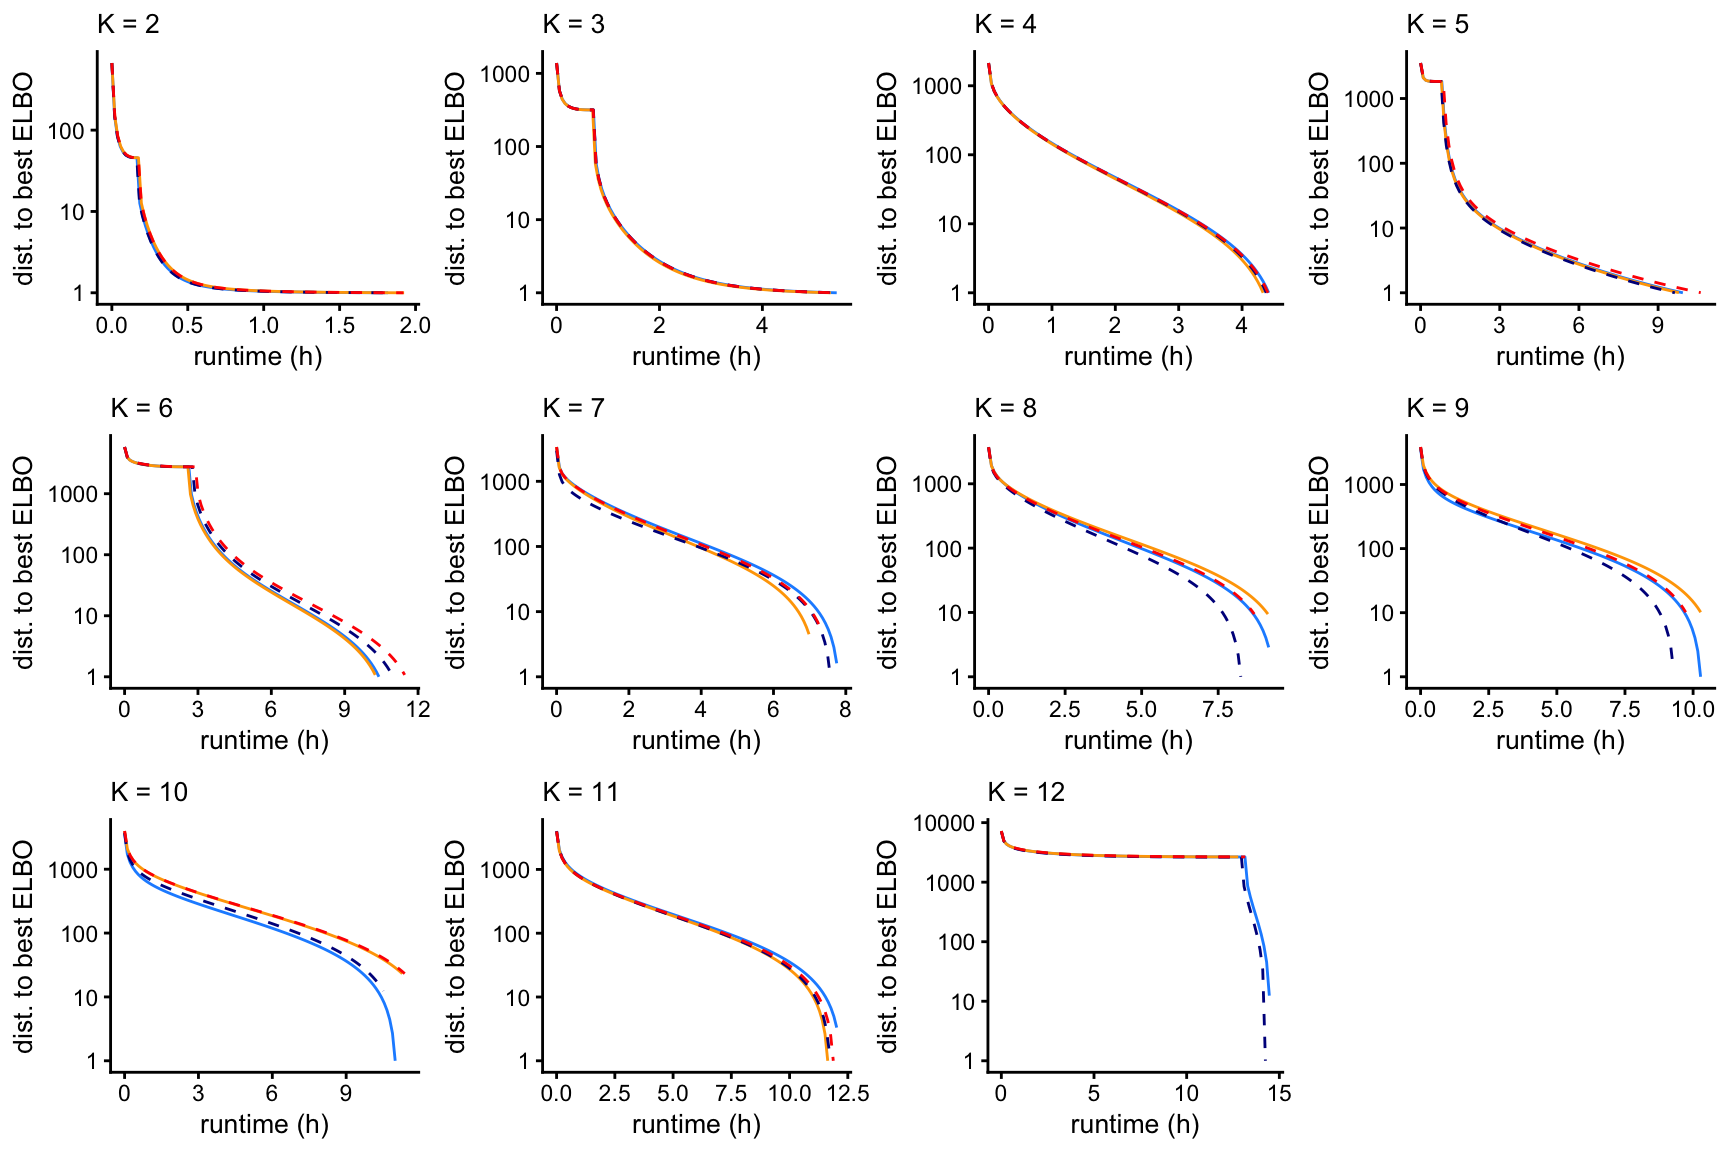
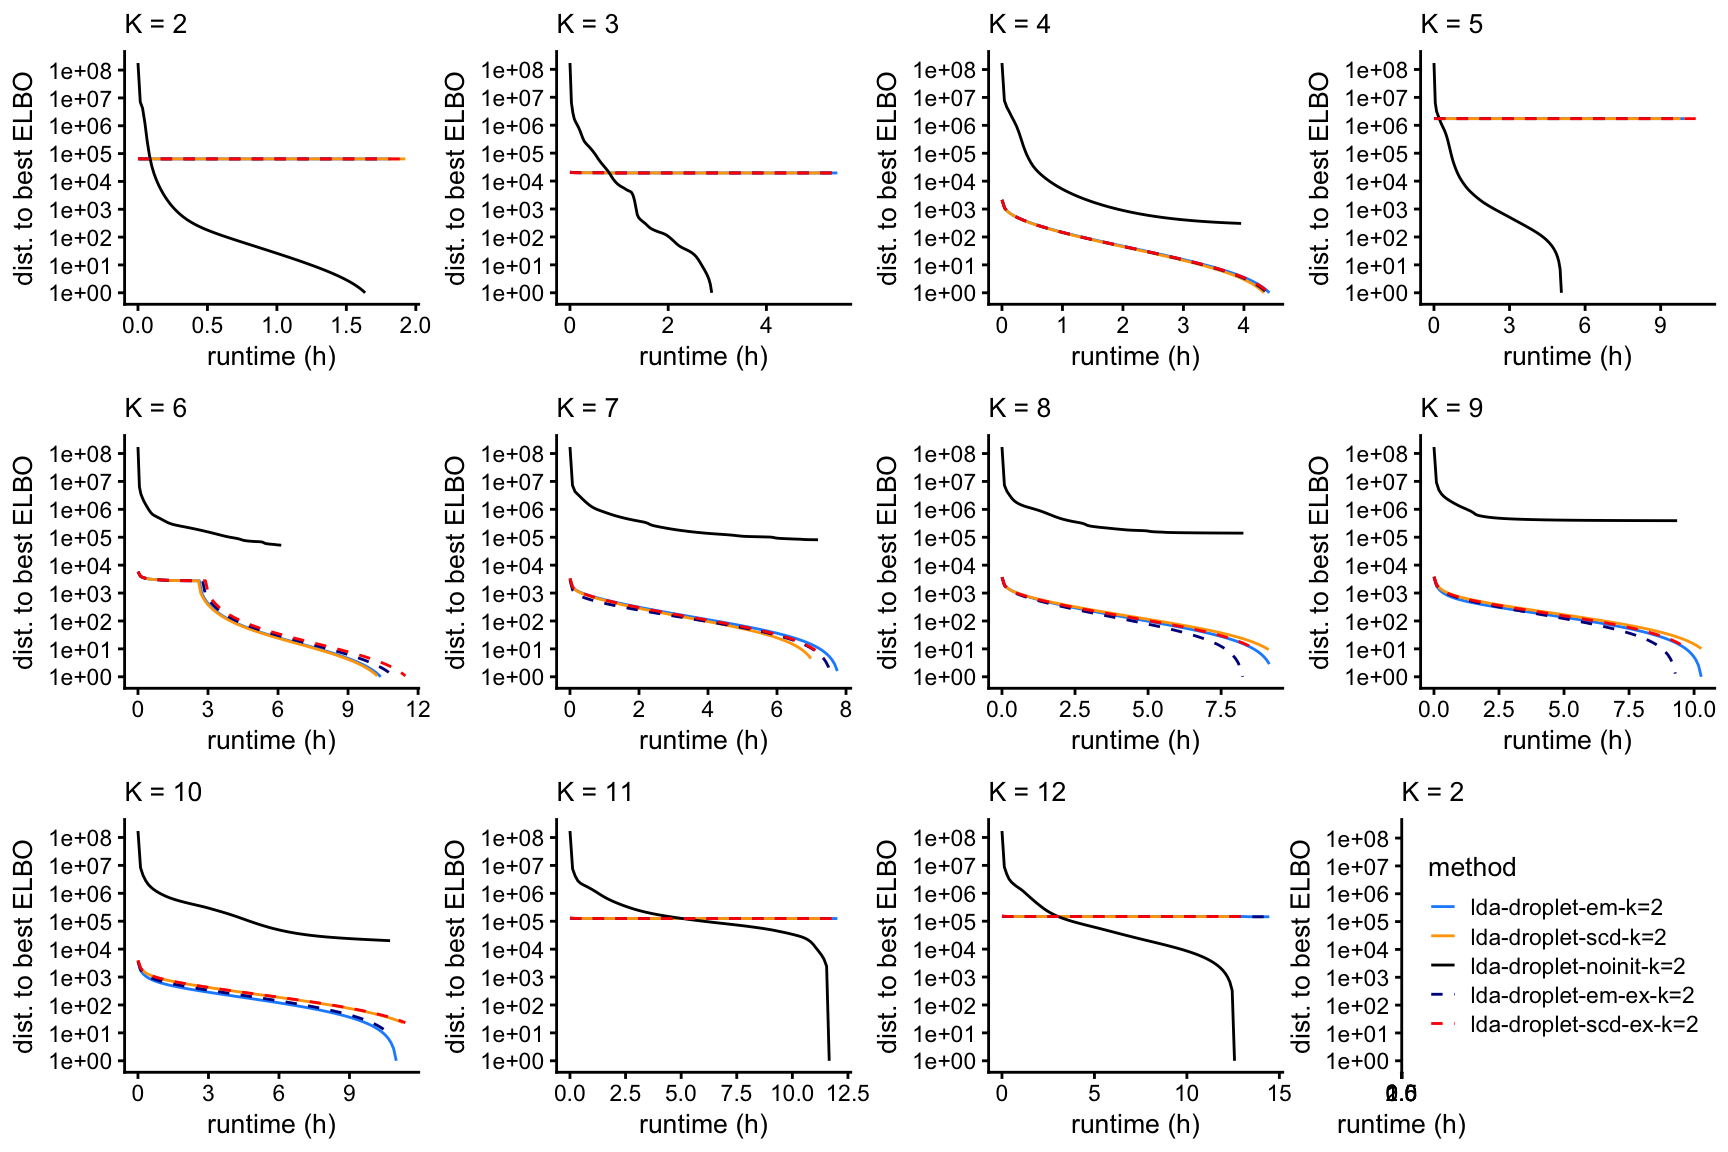
Added 'noinit' runs to ELBO plots for droplet data.

diff --git a/docs/assess_fits_droplet.html b/docs/assess_fits_droplet.html
@@ -301,7 +301,7 @@ class="glyphicon glyphicon-ok text-success" aria-hidden="true"></span>
 <div class="tab-content">
 <div id="summary" class="tab-pane fade in active">
 <p>
-<strong>Last updated:</strong> 2024-07-30
+<strong>Last updated:</strong> 2024-08-21
 </p>
 <p>
 <strong>Checks:</strong> <span
@@ -433,15 +433,15 @@ project makes it easier to run your code on other machines.</p>
 <div class="panel panel-default">
 <div class="panel-heading">
 <p class="panel-title">
-<a data-toggle="collapse" data-parent="#workflowr-checks" href="#strongRepositoryversionstrongahrefhttpsgithubcomstephenslabfastTopicsexperimentstree1eb8b9d15c45be1d5db11033c3c94345e9ad90d0targetblank1eb8b9da">
+<a data-toggle="collapse" data-parent="#workflowr-checks" href="#strongRepositoryversionstrongahrefhttpsgithubcomstephenslabfastTopicsexperimentstree1fc4d5022dfebe95f26455be759b678e741050e9targetblank1fc4d50a">
 <span class="glyphicon glyphicon-ok text-success"
 aria-hidden="true"></span> <strong>Repository version:</strong>
-<a href="https://github.com/stephenslab/fastTopics-experiments/tree/1eb8b9d15c45be1d5db11033c3c94345e9ad90d0" target="_blank">1eb8b9d</a>
+<a href="https://github.com/stephenslab/fastTopics-experiments/tree/1fc4d5022dfebe95f26455be759b678e741050e9" target="_blank">1fc4d50</a>
 </a>
 </p>
 </div>
 <div
[2 lines of base64/hex data omitted]
 class="panel-collapse collapse">
 <div class="panel-body">
 <p>
@@ -451,7 +451,7 @@ reproducibility.
 </p>
 <p>
 The results in this page were generated with repository version
-<a href="https://github.com/stephenslab/fastTopics-experiments/tree/1eb8b9d15c45be1d5db11033c3c94345e9ad90d0" target="_blank">1eb8b9d</a>.
+<a href="https://github.com/stephenslab/fastTopics-experiments/tree/1fc4d5022dfebe95f26455be759b678e741050e9" target="_blank">1fc4d50</a>.
 See the <em>Past versions</em> tab to see a history of the changes made
 to the R Markdown and HTML files.
 </p>
@@ -476,10 +476,10 @@ Ignored files:
     Ignored:    output/newsgroups/de-newsgroups.RData
     Ignored:    output/newsgroups/fits-newsgroups.RData
     Ignored:    output/newsgroups/lda-newsgroups.RData
+    Ignored:    output/newsgroups/rds/
     Ignored:    output/nips/fits-nips.RData
     Ignored:    output/nips/lda-nips.RData
-    Ignored:    output/pbmc68k/fits-pbmc68k.RData
-    Ignored:    output/pbmc68k/lda-pbmc68k.RData
+    Ignored:    output/pbmc68k/rds/
 
 Untracked files:
     Untracked:  analysis/lda-eb-newsgroups-em-k=10.rds
@@ -488,11 +488,10 @@ Untracked files:
     Untracked:  analysis/lda-newsgroups-scd-ex-k=10.rds
     Untracked:  analysis/maptpx-newsgroups-em-k=10.rds
     Untracked:  analysis/maptpx-newsgroups-scd-ex-k=10.rds
-    Untracked:  analysis/smallsim_elbo.pdf
-    Untracked:  analysis/smallsim_lda_structure_plots.pdf
-    Untracked:  analysis/smallsim_progress.pdf
-    Untracked:  analysis/smallsim_structure_plots.pdf
     Untracked:  plots/
+
+Unstaged changes:
+    Modified:   analysis/assess_fits_nips.Rmd
 
 </code></pre>
 <p>
@@ -538,6 +537,40 @@ Message
 </tr>
 </thead>
 <tbody>
+<tr>
+<td>
+Rmd
+</td>
+<td>
+<a href="https://github.com/stephenslab/fastTopics-experiments/blob/1fc4d5022dfebe95f26455be759b678e741050e9/analysis/assess_fits_droplet.Rmd" target="_blank">1fc4d50</a>
+</td>
+<td>
+Peter Carbonetto
+</td>
+<td>
+2024-08-21
+</td>
+<td>
+workflowr::wflow_publish("assess_fits_droplet.Rmd", verbose = TRUE)
+</td>
+</tr>
+<tr>
+<td>
+html
+</td>
+<td>
+<a href="https://rawcdn.githack.com/stephenslab/fastTopics-experiments/0011148e6412fc08b45114887ee3f084fc4e8e1b/docs/assess_fits_droplet.html" target="_blank">0011148</a>
+</td>
+<td>
+Peter Carbonetto
+</td>
+<td>
+2024-07-30
+</td>
+<td>
+Added ELBO plots to assess_fits_droplet analysis.
+</td>
+</tr>
 <tr>
 <td>
 Rmd
@@ -710,6 +743,17 @@ Date
 <tbody>
 <tr>
 <td>
+<a href="https://github.com/stephenslab/fastTopics-experiments/blob/0011148e6412fc08b45114887ee3f084fc4e8e1b/docs/figure/assess_fits_droplet.Rmd/plot-loglik-vs-k-1.png" target="_blank">0011148</a>
+</td>
+<td>
+Peter Carbonetto
+</td>
+<td>
+2024-07-30
+</td>
+</tr>
+<tr>
+<td>
 <a href="https://github.com/stephenslab/fastTopics-experiments/blob/c0cbe8c2c6ccfc4255bfb03d5e3f1435846d621b/docs/figure/assess_fits_droplet.Rmd/plot-loglik-vs-k-1.png" target="_blank">c0cbe8c</a>
 </td>
 <td>
@@ -780,6 +824,17 @@ Date
 <tbody>
 <tr>
 <td>
+<a href="https://github.com/stephenslab/fastTopics-experiments/blob/0011148e6412fc08b45114887ee3f084fc4e8e1b/docs/figure/assess_fits_droplet.Rmd/plot-loglik-1.png" target="_blank">0011148</a>
+</td>
+<td>
+Peter Carbonetto
+</td>
+<td>
+2024-07-30
+</td>
+</tr>
+<tr>
+<td>
 <a href="https://github.com/stephenslab/fastTopics-experiments/blob/c81db07893d1e0872a89469d4ec8ee85d32b3925/docs/figure/assess_fits_droplet.Rmd/plot-loglik-1.png" target="_blank">c81db07</a>
 </td>
 <td>
@@ -836,6 +891,17 @@ Date
 <tbody>
 <tr>
 <td>
+<a href="https://github.com/stephenslab/fastTopics-experiments/blob/0011148e6412fc08b45114887ee3f084fc4e8e1b/docs/figure/assess_fits_droplet.Rmd/plot-res-1.png" target="_blank">0011148</a>
+</td>
+<td>
+Peter Carbonetto
+</td>
+<td>
+2024-07-30
+</td>
+</tr>
+<tr>
+<td>
 <a href="https://github.com/stephenslab/fastTopics-experiments/blob/c0cbe8c2c6ccfc4255bfb03d5e3f1435846d621b/docs/figure/assess_fits_droplet.Rmd/plot-res-1.png" target="_blank">c0cbe8c</a>
 </td>
 <td>
@@ -888,6 +954,17 @@ Date
 <tbody>
 <tr>
 <td>
+<a href="https://github.com/stephenslab/fastTopics-experiments/blob/0011148e6412fc08b45114887ee3f084fc4e8e1b/docs/figure/assess_fits_droplet.Rmd/loadings-scatterplot-1.png" target="_blank">0011148</a>
+</td>
+<td>
+Peter Carbonetto
+</td>
+<td>
+2024-07-30
+</td>
+</tr>
+<tr>
+<td>
 <a href="https://github.com/stephenslab/fastTopics-experiments/blob/406539d2c220d8b89896c236de49fd2cd280ef2d/docs/figure/assess_fits_droplet.Rmd/loadings-scatterplot-1.png" target="_blank">406539d</a>
 </td>
 <td>
@@ -904,16 +981,56 @@ Peter Carbonetto
 <p>Finally, let’s have a look at the results of running LDA with the
 various initializations:</p>
 <pre class="r"><code>load(&quot;../output/droplet/lda-droplet.RData&quot;)
-p &lt;- vector(&quot;list&quot;,12)
+p      &lt;- vector(&quot;list&quot;,12)
+runs   &lt;- which(dat$k == 2)
+p[[1]] &lt;- create_elbo_plot(fits[runs],dat[runs,&quot;runtime&quot;],2)
 for (i in 2:12) {
   runs   &lt;- which(dat$k == i)
-  p[[i]] &lt;- create_elbo_plot(fits[runs],dat[runs,&quot;runtime&quot;],i)
+  p[[i]] &lt;- create_elbo_plot(fits[runs],dat[runs,&quot;runtime&quot;],i) +
+    guides(color = &quot;none&quot;,linetype = &quot;none&quot;)
 }
 plot_grid(p[[2]],p[[3]],p[[4]],p[[5]],
           p[[6]],p[[7]],p[[8]],p[[9]],
-          p[[10]],p[[11]],p[[12]],
+          p[[10]],p[[11]],p[[12]],p[[1]],
           nrow = 3,ncol = 4)</code></pre>
 <p><img src="figure/assess_fits_droplet.Rmd/elbo-plots-1.png" width="864" style="display: block; margin: auto;" /></p>
+<p>
+<button type="button" class="btn btn-default btn-xs btn-workflowr btn-workflowr-fig" data-toggle="collapse" data-target="#fig-elbo-plots-1">
+Past versions of elbo-plots-1.png
+</button>
+</p>
+<div id="fig-elbo-plots-1" class="collapse">
+<div class="table-responsive">
+<table class="table table-condensed table-hover">
+<thead>
+<tr>
+<th>
+Version
+</th>
+<th>
+Author
+</th>
+<th>
+Date
+</th>
+</tr>
+</thead>
+<tbody>
+<tr>
+<td>
+<a href="https://github.com/stephenslab/fastTopics-experiments/blob/0011148e6412fc08b45114887ee3f084fc4e8e1b/docs/figure/assess_fits_droplet.Rmd/elbo-plots-1.png" target="_blank">0011148</a>
+</td>
+<td>
+Peter Carbonetto
+</td>
+<td>
+2024-07-30
+</td>
+</tr>
+</tbody>
+</table>
+</div>
+</div>
 <br>
 <p>
 <button type="button" class="btn btn-default btn-workflowr btn-workflowr-sessioninfo" data-toggle="collapse" data-target="#workflowr-sessioninfo" style="display: block;">
